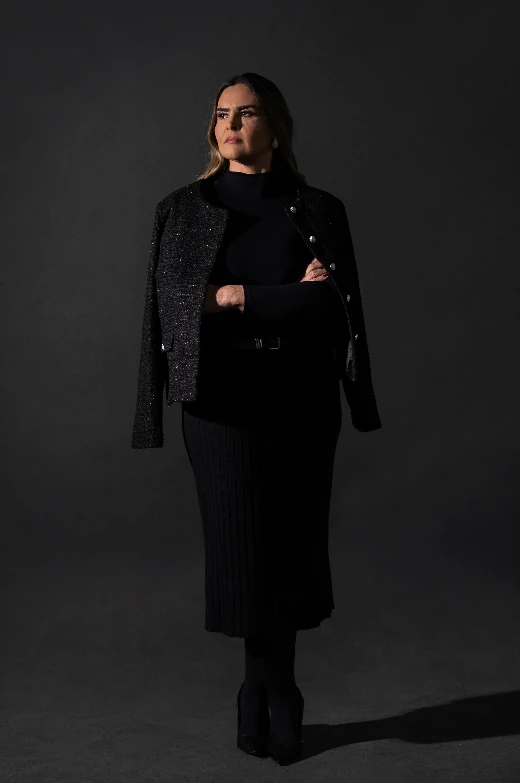
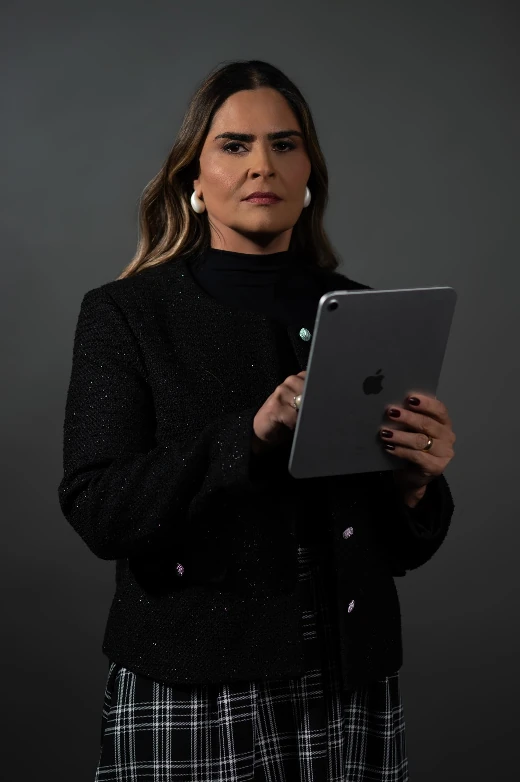
Nova fotografia de posicionamento e correcao de proporcao das imagens
A cliente enviou uma fotografia melhor para o bloco de posicionamento:
nitidez 480 contra 159 da anterior e melhor iluminada.

No caminho apareceu um defeito que estava no site desde o inicio. Os
atributos width e height do HTML entram como dica de apresentacao e
fixam a altura em pixels, anulando o aspect-ratio do CSS. A figura de
posicionamento renderizava a 456x1955 em vez de 456x608 — uma tira
estreita. Um height: auto para imagens com esses atributos devolve o
controle ao CSS, e os atributos seguem reservando espaco contra
deslocamento de layout.

- srcset passa a ser montado a partir dos arquivos existentes, com a
  largura real de cada um; a nova foto tem 1064px e nao gera os degraus
  de 1100 e 1300, que antes seriam anunciados e dariam 404
- teste de regressao: nenhuma imagem pode renderizar com proporcao fora
  da faixa de 0.3 a 4.0, em nenhuma pagina

Claude-Session: https://claude.ai/code/session_014vYG6zrVR5x9bwv8jZzgLg

diff --git a/areas-de-atuacao/direito-previdenciario/index.html b/areas-de-atuacao/direito-previdenciario/index.html
@@ -80,7 +80,7 @@
       <div class="prosa"><p>Por isso a análise vem primeiro. Levantamento do CNIS, conferência de vínculos, identificação de períodos especiais ou não registrados e comparação entre as regras aplicáveis ao seu caso.</p><p>Só depois disso faz sentido decidir o que pedir e quando pedir. Passando pela via administrativa e, se necessário, pela via judicial.</p></div>
     </div>
     <figure class="revelar revelar--imagem" data-atraso="1">
-      <picture><source type="image/webp" sizes="(min-width: 1200px) 1100px, (min-width: 900px) 760px, (min-width: 600px) 760px, 95vw" srcset="../../assets/img/areas-520.webp 520w, ../../assets/img/areas-760.webp 760w, ../../assets/img/areas-1100.webp 1100w, ../../assets/img/areas-1300.webp 1300w"><img src="../../assets/img/areas-760.jpg" alt="Direito Previdenciário" loading="lazy" decoding="async" width="896" height="1372"></picture>
+      <picture><source type="image/webp" sizes="(min-width: 1200px) 1100px, (min-width: 900px) 760px, (min-width: 600px) 760px, 95vw" srcset="../../assets/img/areas-520.webp 520w, ../../assets/img/areas-760.webp 760w, ../../assets/img/areas-1100.webp 1100w"><img src="../../assets/img/areas-760.jpg" alt="Direito Previdenciário" loading="lazy" decoding="async" width="896" height="1372"></picture>
     </figure>
   </div>
 </section>

diff --git a/index.html b/index.html
@@ -90,7 +90,7 @@
 <section class="secao secao--clara manifesto">
   <div class="env manifesto__grade">
     <figure class="manifesto__figura revelar revelar--imagem" data-parallax="0.018">
-      <picture><source type="image/webp" sizes="(min-width: 1200px) 1100px, (min-width: 900px) 760px, (min-width: 600px) 760px, 95vw" srcset="assets/img/posicionamento-520.webp 520w, assets/img/posicionamento-760.webp 760w, assets/img/posicionamento-1100.webp 1100w, assets/img/posicionamento-1300.webp 1300w"><img src="assets/img/posicionamento-760.jpg" alt="Daniela Clemente, advogada" loading="lazy" decoding="async" width="1299" height="1955"></picture>
+      <picture><source type="image/webp" sizes="(min-width: 1200px) 1100px, (min-width: 900px) 760px, (min-width: 600px) 760px, 95vw" srcset="assets/img/posicionamento-520.webp 520w, assets/img/posicionamento-760.webp 760w, assets/img/posicionamento-1064.webp 1064w"><img src="assets/img/posicionamento-760.jpg" alt="Daniela Clemente, advogada" loading="lazy" decoding="async" width="1299" height="1955"></picture>
     </figure>
     <div class="revelar" data-atraso="1">
       <span class="rotulo">Posicionamento</span>

diff --git a/sobre/index.html b/sobre/index.html
@@ -91,7 +91,7 @@
       </div>
     </div>
     <figure class="revelar revelar--imagem" data-atraso="1">
-      <picture><source type="image/webp" sizes="(min-width: 1200px) 1100px, (min-width: 900px) 760px, (min-width: 600px) 760px, 95vw" srcset="../assets/img/areas-520.webp 520w, ../assets/img/areas-760.webp 760w, ../assets/img/areas-1100.webp 1100w, ../assets/img/areas-1300.webp 1300w"><img src="../assets/img/areas-760.jpg" alt="Daniela Clemente" loading="lazy" decoding="async" width="896" height="1348"></picture>
+      <picture><source type="image/webp" sizes="(min-width: 1200px) 1100px, (min-width: 900px) 760px, (min-width: 600px) 760px, 95vw" srcset="../assets/img/areas-520.webp 520w, ../assets/img/areas-760.webp 760w, ../assets/img/areas-1100.webp 1100w"><img src="../assets/img/areas-760.jpg" alt="Daniela Clemente" loading="lazy" decoding="async" width="896" height="1348"></picture>
     </figure>
   </div>
 </section>

diff --git a/assets/style.css b/assets/style.css
@@ -46,6 +46,10 @@ html { -webkit-text-size-adjust: 100%; scroll-behavior: smooth; }
 body, h1, h2, h3, h4, p, figure, blockquote, dl, dd, ul, ol { margin: 0; padding: 0; }
 ul[class], ol[class] { list-style: none; }
 img, picture, svg { display: block; max-width: 100%; }
+/* Os atributos width/height do HTML viram dica de apresentação e fixam a altura,
+   anulando o aspect-ratio do CSS. Com height: auto o aspect-ratio volta a mandar,
+   e os atributos seguem reservando o espaço contra deslocamento de layout. */
+img[width][height] { height: auto; }
 button, input, select, textarea { font: inherit; color: inherit; }
 
 body {

diff --git a/src/style.css b/src/style.css
@@ -46,6 +46,10 @@ html { -webkit-text-size-adjust: 100%; scroll-behavior: smooth; }
 body, h1, h2, h3, h4, p, figure, blockquote, dl, dd, ul, ol { margin: 0; padding: 0; }
 ul[class], ol[class] { list-style: none; }
 img, picture, svg { display: block; max-width: 100%; }
+/* Os atributos width/height do HTML viram dica de apresentação e fixam a altura,
+   anulando o aspect-ratio do CSS. Com height: auto o aspect-ratio volta a mandar,
+   e os atributos seguem reservando o espaço contra deslocamento de layout. */
+img[width][height] { height: auto; }
 button, input, select, textarea { font: inherit; color: inherit; }
 
 body {

diff --git a/build.py b/build.py
@@ -115,11 +115,21 @@ def img(nome, alt, classe="", sizes="100vw", eager=False, ratio=None):
             f'{carregamento} decoding="async"{dims}>'
         )
 
+    # O srcset é montado a partir dos arquivos que existem, com a largura real
+    # de cada um. Uma fotografia de origem mais estreita simplesmente não gera
+    # os degraus maiores, e declarar uma largura que o arquivo não tem faria o
+    # navegador escolher errado.
+    degraus = sorted(
+        int(f.stem.rsplit("-", 1)[1])
+        for f in (SRC / "img").glob(f"{nome}-*.webp")
+        if f.stem.rsplit("-", 1)[1].isdigit()
+    )
+    srcset = ", ".join(
+        f"{prefixo()}assets/img/{nome}-{w}.webp {w}w" for w in degraus
+    )
     return (
         "<picture>"
-        f'<source type="image/webp" sizes="{sizes}" '
-        f'srcset="{prefixo()}assets/img/{nome}-520.webp 520w, {prefixo()}assets/img/{nome}-760.webp 760w, '
-        f'{prefixo()}assets/img/{nome}-1100.webp 1100w, {prefixo()}assets/img/{nome}-1300.webp 1300w">'
+        f'<source type="image/webp" sizes="{sizes}" srcset="{srcset}">'
         f'<img{cls} src="{prefixo()}assets/img/{nome}-760.jpg" alt="{alt_esc}" '
         f'{carregamento} decoding="async"{dims}>'
         "</picture>"
